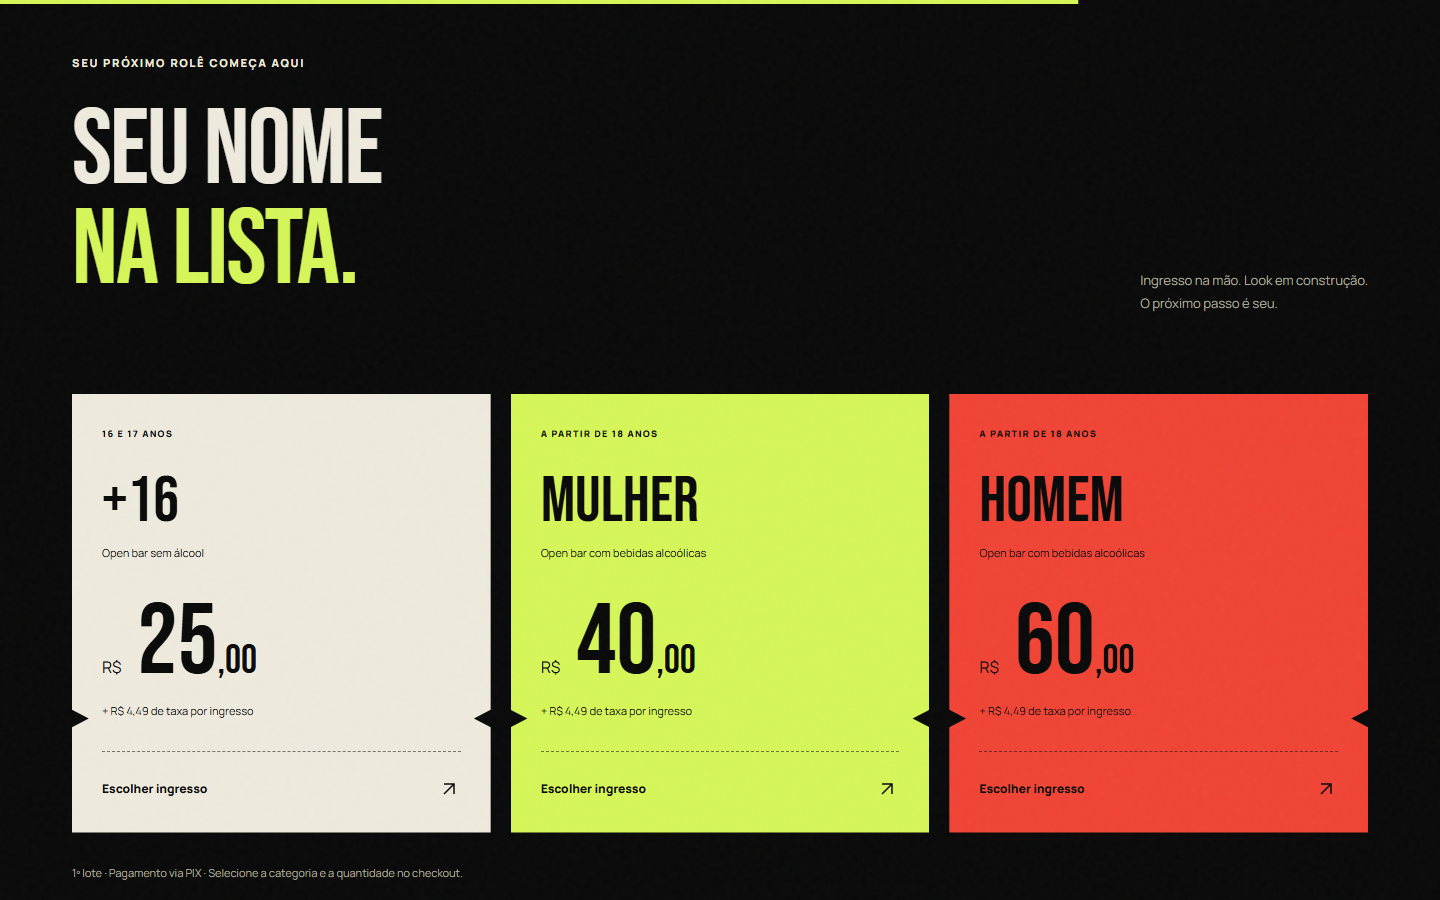
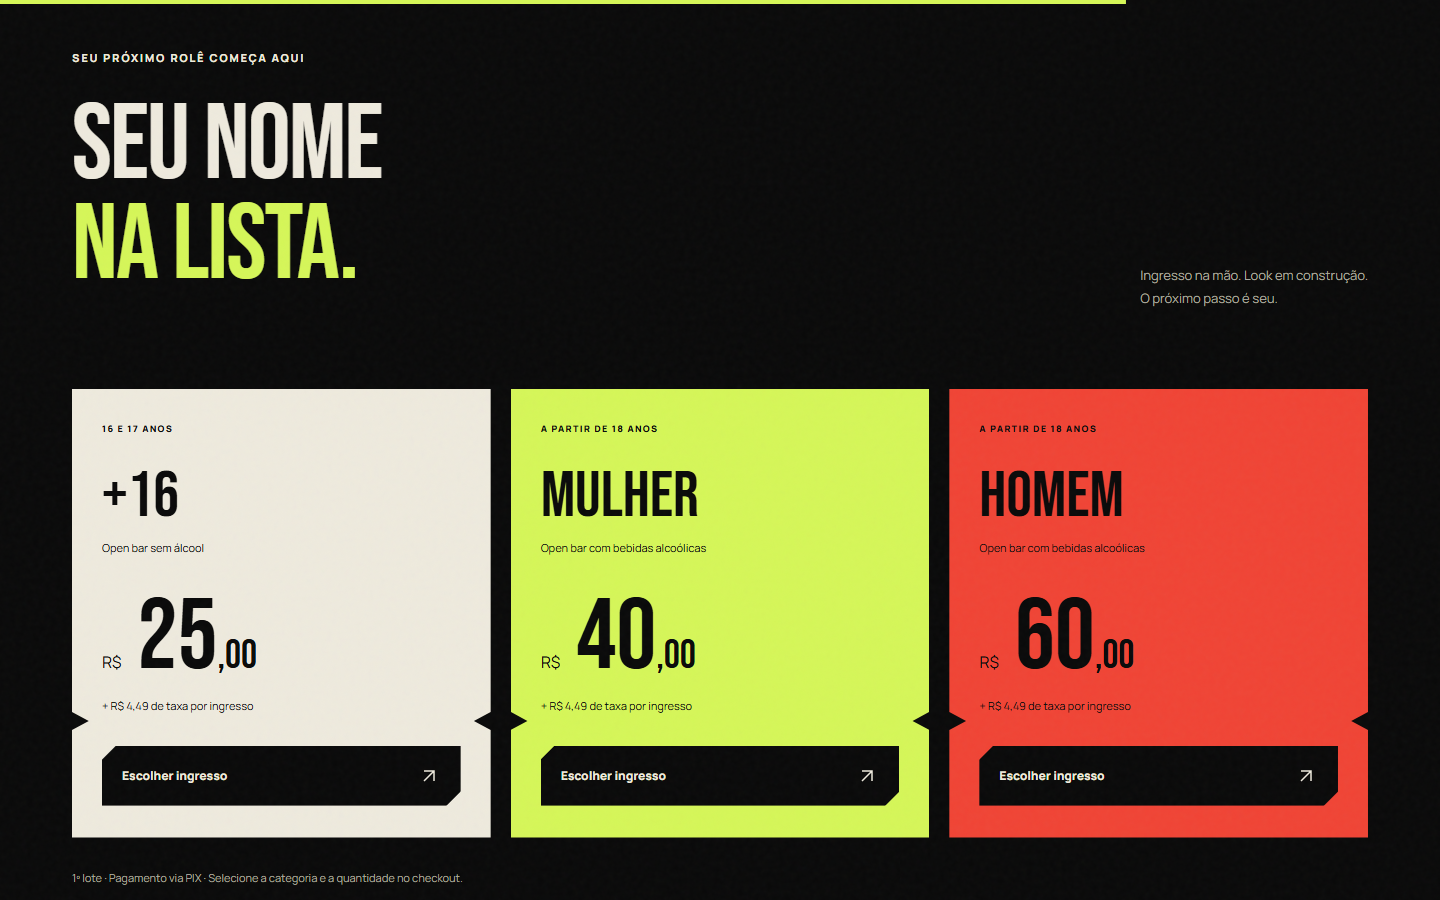
Move contador para abertura e aplica botoes com cantos diagonais

diff --git a/index.html b/index.html
@@ -37,7 +37,11 @@
 <section class="hero" id="inicio" aria-labelledby="hero-title">
  <div class="hero-art" aria-hidden="true"></div>
  <div class="hero-content wrap">
-  <p class="eyebrow">31 DE OUTUBRO DE 2026 <span>·</span> SÃO JOSÉ DO RIO PRETO, SP</p>
+  <section class="hero-countdown" aria-label="Data e contagem regressiva para o dia da festa">
+   <div class="countdown-date"><span>PREPARE O SEU OUTRO LADO</span><time datetime="2026-10-31">31 OUTUBRO <b>2026</b></time><small>SÁBADO · SÃO JOSÉ DO RIO PRETO</small></div>
+   <div class="clock" role="timer" aria-label="Tempo restante até o dia 31 de outubro, horário de Brasília"><div><strong id="days">00</strong><span>DIAS</span></div><div><strong id="hours">00</strong><span>HORAS</span></div><div><strong id="minutes">00</strong><span>MIN</span></div><div><strong id="seconds">00</strong><span>SEG</span></div></div>
+   <p id="count-note">Contagem para o dia da festa · horário de Brasília</p>
+  </section>
   <p class="kicker">EDIÇÃO 2026 / ENTRE POR SUA CONTA E RISCO.</p>
   <h1 id="hero-title">Halloween<span>da Mari Ferro</span></h1><p class="signature">MF PARTY</p>
   <p class="hero-copy">A cidade dorme.<br><strong>O seu lado sombrio, não.</strong></p>
@@ -67,7 +71,6 @@
   <article class="admission"><p class="ticket-category">A PARTIR DE 18 ANOS</p><h3>Homem</h3><p>Open bar com bebidas alcoólicas</p><div class="price"><small>R$</small> 60<span>,00</span></div><p class="fee">+ R$ 4,49 de taxa por ingresso</p><a href="checkout.html" class="ticket-link" aria-label="Ir ao checkout para ingresso homem">Escolher ingresso <svg viewBox="0 0 24 24" aria-hidden="true"><path d="M7 17 17 7M7 7h10v10"/></svg></a></article>
  </div><p class="ticket-footnote">1º lote · Pagamento via PIX · Selecione a categoria e a quantidade no checkout.</p>
 </section>
-<section class="countdown"><div class="wrap countdown-inner"><div><p class="eyebrow">ANOTE A DATA. PREPARE O LOOK.</p><h2>A NOITE TEM <em>DATA.</em></h2><p id="count-note">Contagem para o dia da festa, no horário de Brasília.</p></div><div class="clock"><div><strong id="days">00</strong><span>DIAS</span></div><div><strong id="hours">00</strong><span>HORAS</span></div><div><strong id="minutes">00</strong><span>MINUTOS</span></div><div><strong id="seconds">00</strong><span>SEGUNDOS</span></div></div></div></section>
 <section class="faq wrap section" id="duvidas"><div><p class="eyebrow">ANTES DE VIR</p><h2>SEM MISTÉRIO.<br><em>QUASE TUDO.</em></h2></div><div class="questions">
       <details>
         <summary>Quando e onde vai acontecer?<svg viewBox="0 0 24 24" aria-hidden="true"><path d="M12 5v14M5 12h14"/></svg></summary>

diff --git a/css/home.css b/css/home.css
@@ -228,3 +228,38 @@ html{overflow-x:clip}
 
 .sound-bars{font-size:22px}
 
+
+/* Angular calls to action and the countdown in the opening scene. */
+.button,.nav-cta,.ticket-link{clip-path:polygon(14px 0,100% 0,100% calc(100% - 14px),calc(100% - 14px) 100%,0 100%,0 14px);border:0;border-radius:0}
+.button:focus-visible,.nav-cta:focus-visible,.ticket-link:focus-visible{outline:0;box-shadow:inset 0 0 0 4px currentColor}
+.nav-cta{background:var(--acid);color:var(--bg);font-weight:800;padding:14px 22px}
+.ticket-link{background:var(--bg);color:var(--text);padding:18px 20px;transition:background .2s,transform .2s}
+.ticket-link:hover{background:#292923;transform:translateY(-2px)}
+.hero-content{padding-top:130px}
+.hero-countdown{display:grid;grid-template-columns:auto auto;gap:10px 34px;align-items:center;width:fit-content;padding:18px 24px;background:#090909c9;border-left:3px solid var(--acid);backdrop-filter:blur(10px)}
+.countdown-date>span{display:block;font-size:8px;letter-spacing:.14em;color:var(--muted);font-weight:800}
+.countdown-date time{display:block;font:34px/1.2 var(--display);margin:6px 0;color:var(--text)}
+.countdown-date time b{color:var(--acid);font-weight:400}
+.countdown-date small{font-size:8px;letter-spacing:.08em}
+.hero-countdown .clock{gap:16px;width:auto}
+.hero-countdown .clock strong{font-size:44px;color:var(--acid);display:block;min-width:44px}
+.hero-countdown .clock span{font-size:8px;margin-top:4px}
+.hero-countdown #count-note{grid-column:1/-1;margin:0;font-size:8px;color:var(--muted);line-height:1.4}
+.hero .kicker{margin-top:25px}
+@media(max-width:700px){
+.hero-content{padding-top:103px}
+.hero-countdown{width:100%;padding:14px 16px;gap:12px;grid-template-columns:1fr}
+.countdown-date time{font-size:30px;margin:3px 0}
+.countdown-date>span{font-size:7px}
+.hero-countdown .clock{justify-content:flex-start;gap:22px}
+.hero-countdown .clock strong{font-size:36px;min-width:34px}
+.hero-countdown .clock span{font-size:7px}
+.hero-countdown #count-note{font-size:7px}
+.hero .kicker{margin:22px 0 17px;font-size:7px}
+.hero-copy{margin-top:22px}
+.hero .signature{margin-bottom:18px}
+.hero{height:940px}
+.nav-cta{padding:12px 14px}
+.mobile-cta-bar{background:transparent;padding:10px 5% max(10px,env(safe-area-inset-bottom))}
+.mobile-cta-bar a{padding:17px;background:var(--acid);clip-path:polygon(12px 0,100% 0,100% calc(100% - 12px),calc(100% - 12px) 100%,0 100%,0 12px)}
+}
